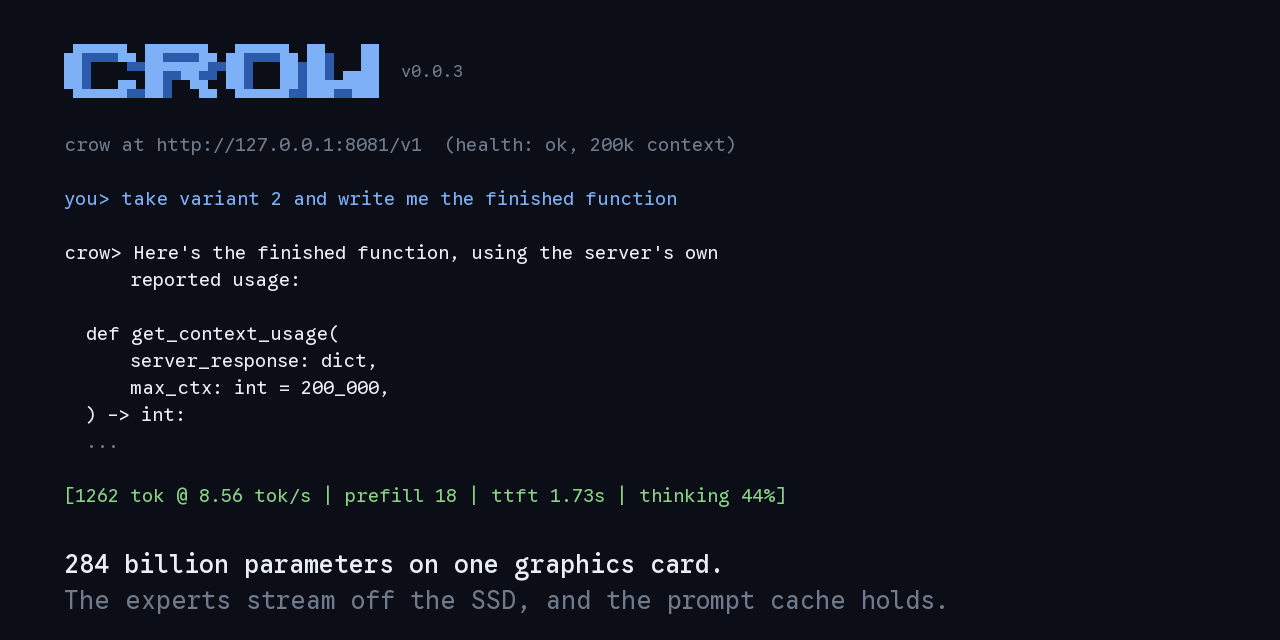
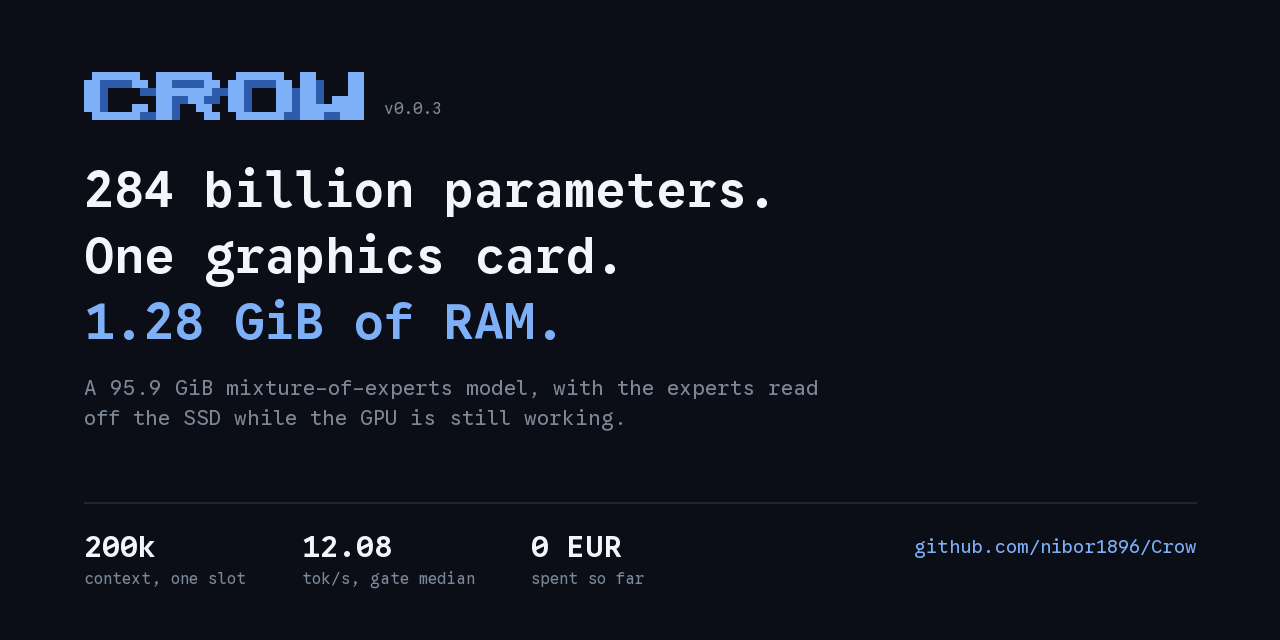
Redraw the social card for the size it is actually seen at
A social preview is read in a feed, scaled down, in under a second. Two attempts
missed that from opposite directions: the first was a generic tech banner that
could have belonged to anything, the second a wall of 19px monospace that turns
to grey mush the moment a feed halves it.

This one carries three lines of large type and one contrast, because the
contrast is the story: a 95.9 GiB model that the host machine holds in 1.28 GiB.
Three figures sit under a rule with their denominators attached, and the link is
on the card rather than assumed.

diff --git a/docs/images/_social.py b/docs/images/_social.py
@@ -1,15 +1,13 @@
 """Render the GitHub social preview card, 1280x640.
 
-The card is a terminal, because the product is a terminal. Everything on it was
-on a real screen: the wordmark is imported from `cli/crow.py` rather than
-retyped, the colours are the ones the client asks the terminal for, the typeface
-is the one that ships in the package, and the two timing lines are copied
-verbatim from the first session run out of an installed copy on 2026-08-08.
+A social card is read at thumbnail size, in a feed, in under a second. That rules
+out what the first two attempts did: one was a generic tech banner, the other a
+wall of 19px monospace that turns to grey mush the moment a feed scales it down.
 
-The version it drew before this was a card ABOUT the software -- big number,
-tagline, whitespace. It looked like every other generated tech banner, and it
-showed nothing that could not have been invented. This one shows the thing
-working, and the interesting part is a number in the second line.
+So this one carries three lines of large type and one contrast, because the
+contrast IS the story -- a 95.9 GiB model held in 1.28 GiB of host memory. The
+wordmark comes from `cli/crow.py` rather than being retyped, and the colours are
+the ones the client asks the terminal for.
 
     python docs/images/_social.py
 """
@@ -29,49 +27,46 @@ OUT = HERE / "social-preview.png"
 FONT = REPO / "cli" / "fonts" / "GoogleSansCode[MONO,wght].ttf"
 
 W, H = 1280, 640
+M = 84                                   # margin, the same on every side
 
-BG     = "#0b0e17"   # the window background the client asks the terminal for
-ACCENT = "#7eb0f8"   # the blue of the wordmark
-BEVEL  = "#2c5bac"   # its shaded edge
-TEXT   = "#e8edf6"
-MUTED  = "#6f7a8b"
-GREEN  = "#89d185"
+BG     = "#0b0e17"
+ACCENT = "#7eb0f8"
+BEVEL  = "#2c5bac"
+TEXT   = "#f2f5fa"
+MUTED  = "#7c8798"
+RULE   = "#1c2536"
 
-# A real coding turn, not a greeting: the card has to show what the thing is
-# for. Taken from the session of 2026-08-08 in which the client was asked how to
-# count its own context window -- the answer it gave is the code that now counts
-# it. The prompt is cut with an ellipsis; nothing else is edited.
-#
-# The last line is the whole point of the picture. Eighteen tokens re-read out
-# of a four-thousand-token conversation: before that day it was all four
-# thousand, and the first word arrived six and a half minutes later.
-SESSION = [
-    (MUTED,  "crow at http://127.0.0.1:8081/v1  (health: ok, 200k context)"),
-    (None,   ""),
-    (ACCENT, "you> take variant 2 and write me the finished function"),
-    (None,   ""),
-    (TEXT,   "crow> Here's the finished function, using the server's own"),
-    (TEXT,   "      reported usage:"),
-    (None,   ""),
-    (TEXT,   "  def get_context_usage("),
-    (TEXT,   "      server_response: dict,"),
-    (TEXT,   "      max_ctx: int = 200_000,"),
-    (TEXT,   "  ) -> int:"),
-    (MUTED,  "  ..."),
-    (None,   ""),
-    (GREEN,  "[1262 tok @ 8.56 tok/s | prefill 18 | ttft 1.73s | thinking 44%]"),
+# Measured on one machine, RTX 5090 at -c 200000 -ngl 99 -np 1. Each of these is
+# in the README with the issue it came from.
+FACTS = [
+    ("200k",     "context, one slot"),
+    ("12.08",    "tok/s, gate median"),
+    ("0 EUR",    "spent so far"),
 ]
 
 
 def load(size, weight=400.0):
     font = ImageFont.truetype(str(FONT), size)
     try:
-        # MONO=1 said out loud: a proportional instance would break the block
-        # art, which is built out of cells that have to line up.
         font.set_variation_by_axes([weight, 1.0])
     except Exception:
         pass
     return font
+
+
+def wordmark(d, x, y, cell):
+    """The block art as filled cells. Glyphs leave seams; rectangles tile."""
+    rows = [ln for ln in crow.BANNER.splitlines() if ln.strip() and "{version}" not in ln]
+    indent = min(len(ln) - len(ln.lstrip()) for ln in rows)
+    rows = [ln[indent:] for ln in rows]
+    for r, line in enumerate(rows):
+        for c, glyph in enumerate(line):
+            if glyph == " ":
+                continue
+            colour = BEVEL if glyph == crow.BANNER_SHADE else ACCENT
+            x0, y0 = x + c * cell, y + r * cell
+            d.rectangle([x0, y0, x0 + cell - 1, y0 + cell - 1], fill=colour)
+    return len(rows[0]) * cell, len(rows) * cell
 
 
 def main() -> int:
@@ -81,39 +76,37 @@ def main() -> int:
 
     img = Image.new("RGB", (W, H), BG)
     d = ImageDraw.Draw(img)
-    left = 64
 
-    # The wordmark as filled cells rather than glyphs: drawing the block
-    # characters as text leaves hairline seams, because a glyph's ink is not
-    # exactly its advance width.
-    lines = [ln for ln in crow.BANNER.splitlines() if ln.strip() and "{version}" not in ln]
-    indent = min(len(ln) - len(ln.lstrip()) for ln in lines)
-    lines = [ln[indent:] for ln in lines]
-    cw = ch = 9
-    top = 44
-    for row, line in enumerate(lines):
-        for col, glyph in enumerate(line):
-            if glyph == " ":
-                continue
-            colour = BEVEL if glyph == crow.BANNER_SHADE else ACCENT
-            x0, y0 = left + col * cw, top + row * ch
-            d.rectangle([x0, y0, x0 + cw - 1, y0 + ch - 1], fill=colour)
+    mark_w, mark_h = wordmark(d, M, M - 12, 8)
+    d.text((M + mark_w + 20, M - 12 + mark_h - 22), f"v{crow.VERSION}",
+           font=load(16), fill=MUTED)
 
-    d.text((left + len(lines[0]) * cw + 22, top + 16), f"v{crow.VERSION}",
-           font=load(17), fill=MUTED)
+    # The headline. Three lines, and the third is the one that makes people
+    # look twice -- a 95.9 GiB model that the host machine never holds.
+    head = load(50, 600.0)
+    y = M + 74
+    d.text((M, y),      "284 billion parameters.", font=head, fill=TEXT)
+    d.text((M, y + 66), "One graphics card.",      font=head, fill=TEXT)
+    d.text((M, y + 132), "1.28 GiB of RAM.",       font=head, fill=ACCENT)
 
-    mono = load(19)
-    y = top + len(lines) * ch + 34
-    for colour, line in SESSION:
-        if line:
-            d.text((left, y), line, font=mono, fill=colour)
-        y += 27
+    body = load(21)
+    d.text((M, y + 216),
+           "A 95.9 GiB mixture-of-experts model, with the experts read", font=body, fill=MUTED)
+    d.text((M, y + 246),
+           "off the SSD while the GPU is still working.", font=body, fill=MUTED)
 
-    # One sentence, and it is the only thing on the card that is not a screen.
-    d.text((left, H - 92), "284 billion parameters on one graphics card.",
-           font=load(25, 500.0), fill=TEXT)
-    d.text((left, H - 56), "The experts stream off the SSD, and the prompt cache holds.",
-           font=load(25), fill=MUTED)
+    d.line([(M, H - 138), (W - M, H - 138)], fill=RULE, width=2)
+
+    big, small = load(30, 600.0), load(16)
+    x = M
+    for value, label in FACTS:
+        d.text((x, H - 112), value, font=big, fill=TEXT)
+        d.text((x, H - 72),  label, font=small, fill=MUTED)
+        x += max(d.textlength(value, font=big), d.textlength(label, font=small)) + 56
+
+    url = load(19)
+    d.text((W - M - d.textlength("github.com/nibor1896/Crow", font=url), H - 106),
+           "github.com/nibor1896/Crow", font=url, fill=ACCENT)
 
     img.save(OUT, optimize=True)
     print(f"wrote {OUT}  {img.size[0]}x{img.size[1]}")
